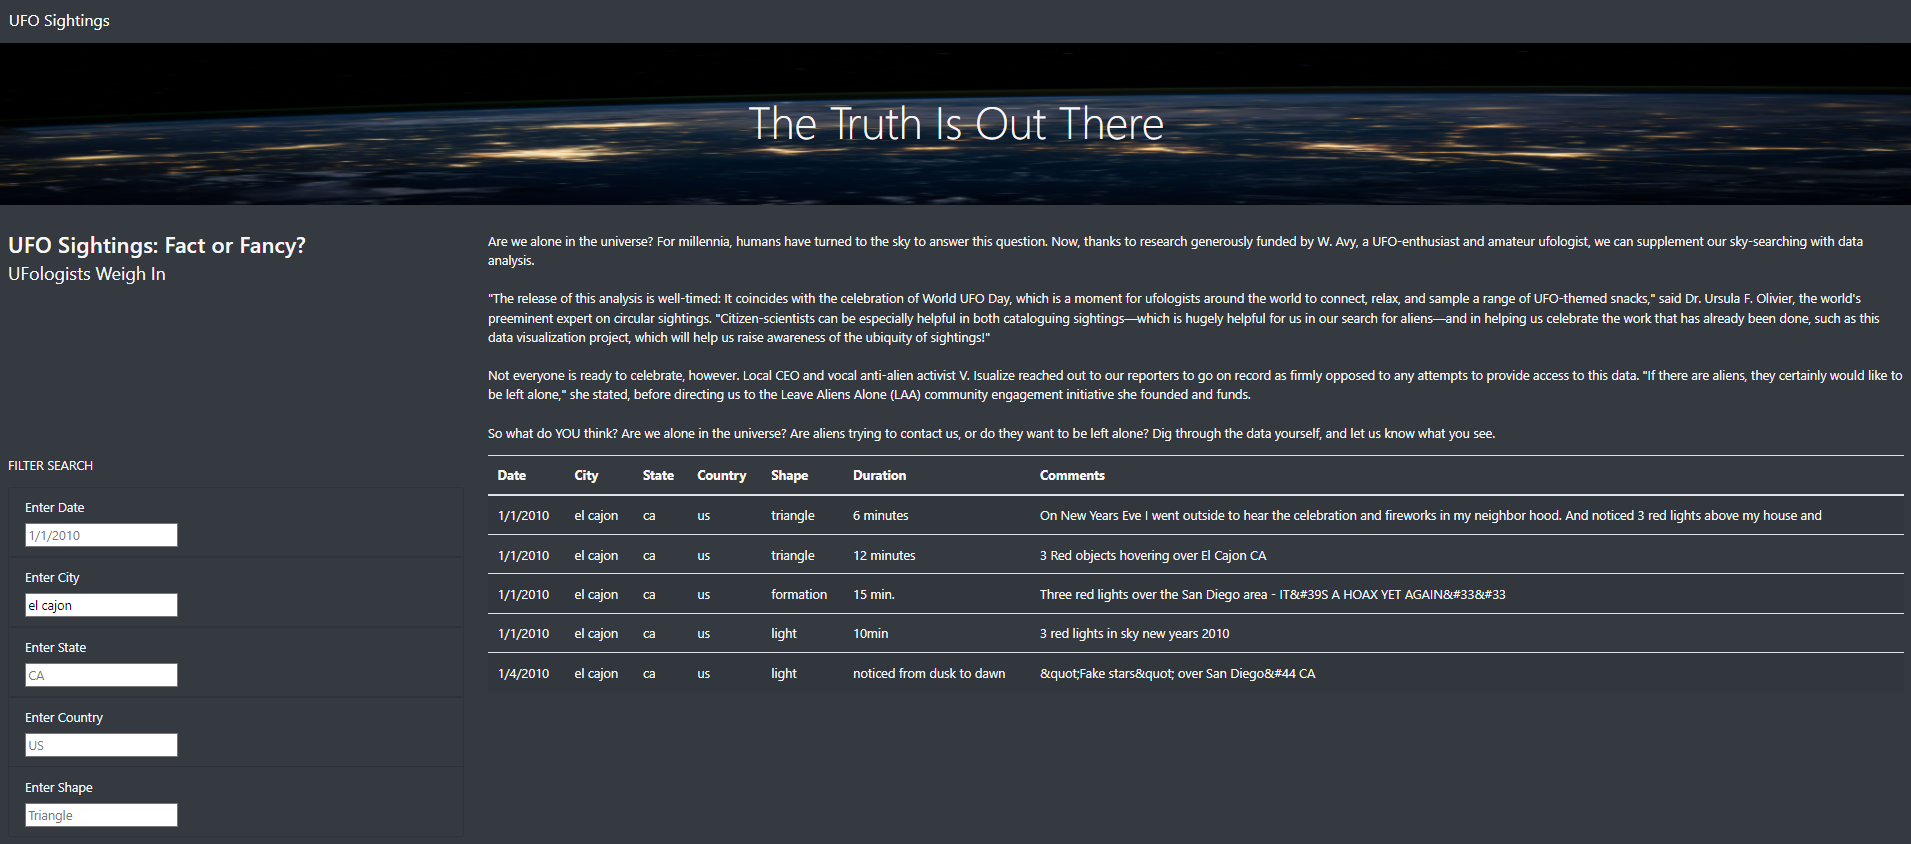
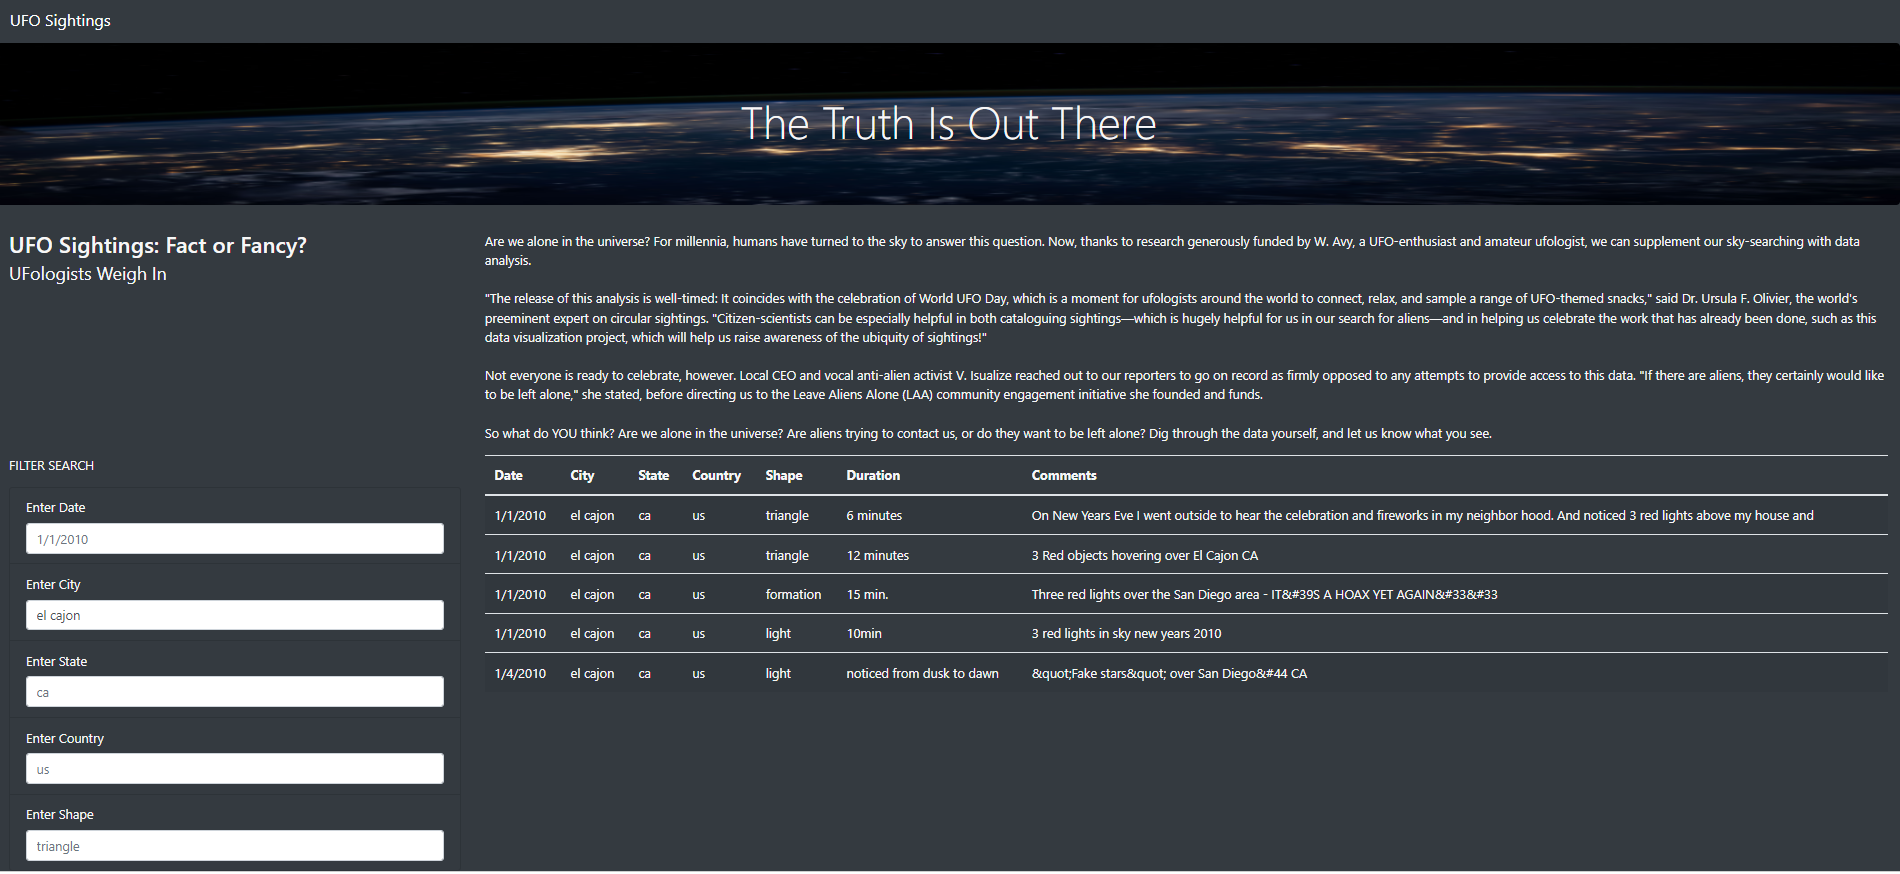
Updating files

Changed region(s): [[0.0, 0.0924, 1.0, 1.0], [0.0, 0.0, 0.0621, 0.0616]]

diff --git a/index.html b/index.html
@@ -45,23 +45,23 @@
                         <ul class="list-group bg-dark">
                             <li class="list-group-item bg-dark">
                                 <label for="date">Enter Date</label><br>
-                                <input type="text" placeholder="1/1/2010" id="datetime" />
+                                <input type="text" class="form-control" placeholder="1/1/2010" id="datetime" />
                             </li>
                             <li class="list-group-item bg-dark">
                                 <label for="city">Enter City</label><br>
-                                <input type="text" placeholder="el Cajon" id="city" />
+                                <input type="text" class="form-control" placeholder="el cajon" id="city" />
                             </li>
                             <li class="list-group-item bg-dark">
                                 <label for="state">Enter State</label><br>
-                                <input type="text" placeholder="CA" id="state" />
+                                <input type="text" class="form-control" placeholder="ca" id="state" />
                             </li>
                             <li class="list-group-item bg-dark">
                                 <label for="country">Enter Country</label><br>
-                                <input type="text" placeholder="US" id="country" />
+                                <input type="text" class="form-control" placeholder="us" id="country" />
                             </li>
                             <li class="list-group-item bg-dark">
                                 <label for="shape">Enter Shape</label><br>
-                                <input type="text" placeholder="Triangle" id="shape" />
+                                <input type="text" class="form-control" placeholder="triangle" id="shape" />
                             </li>
                         </ul>
                   </form>    
